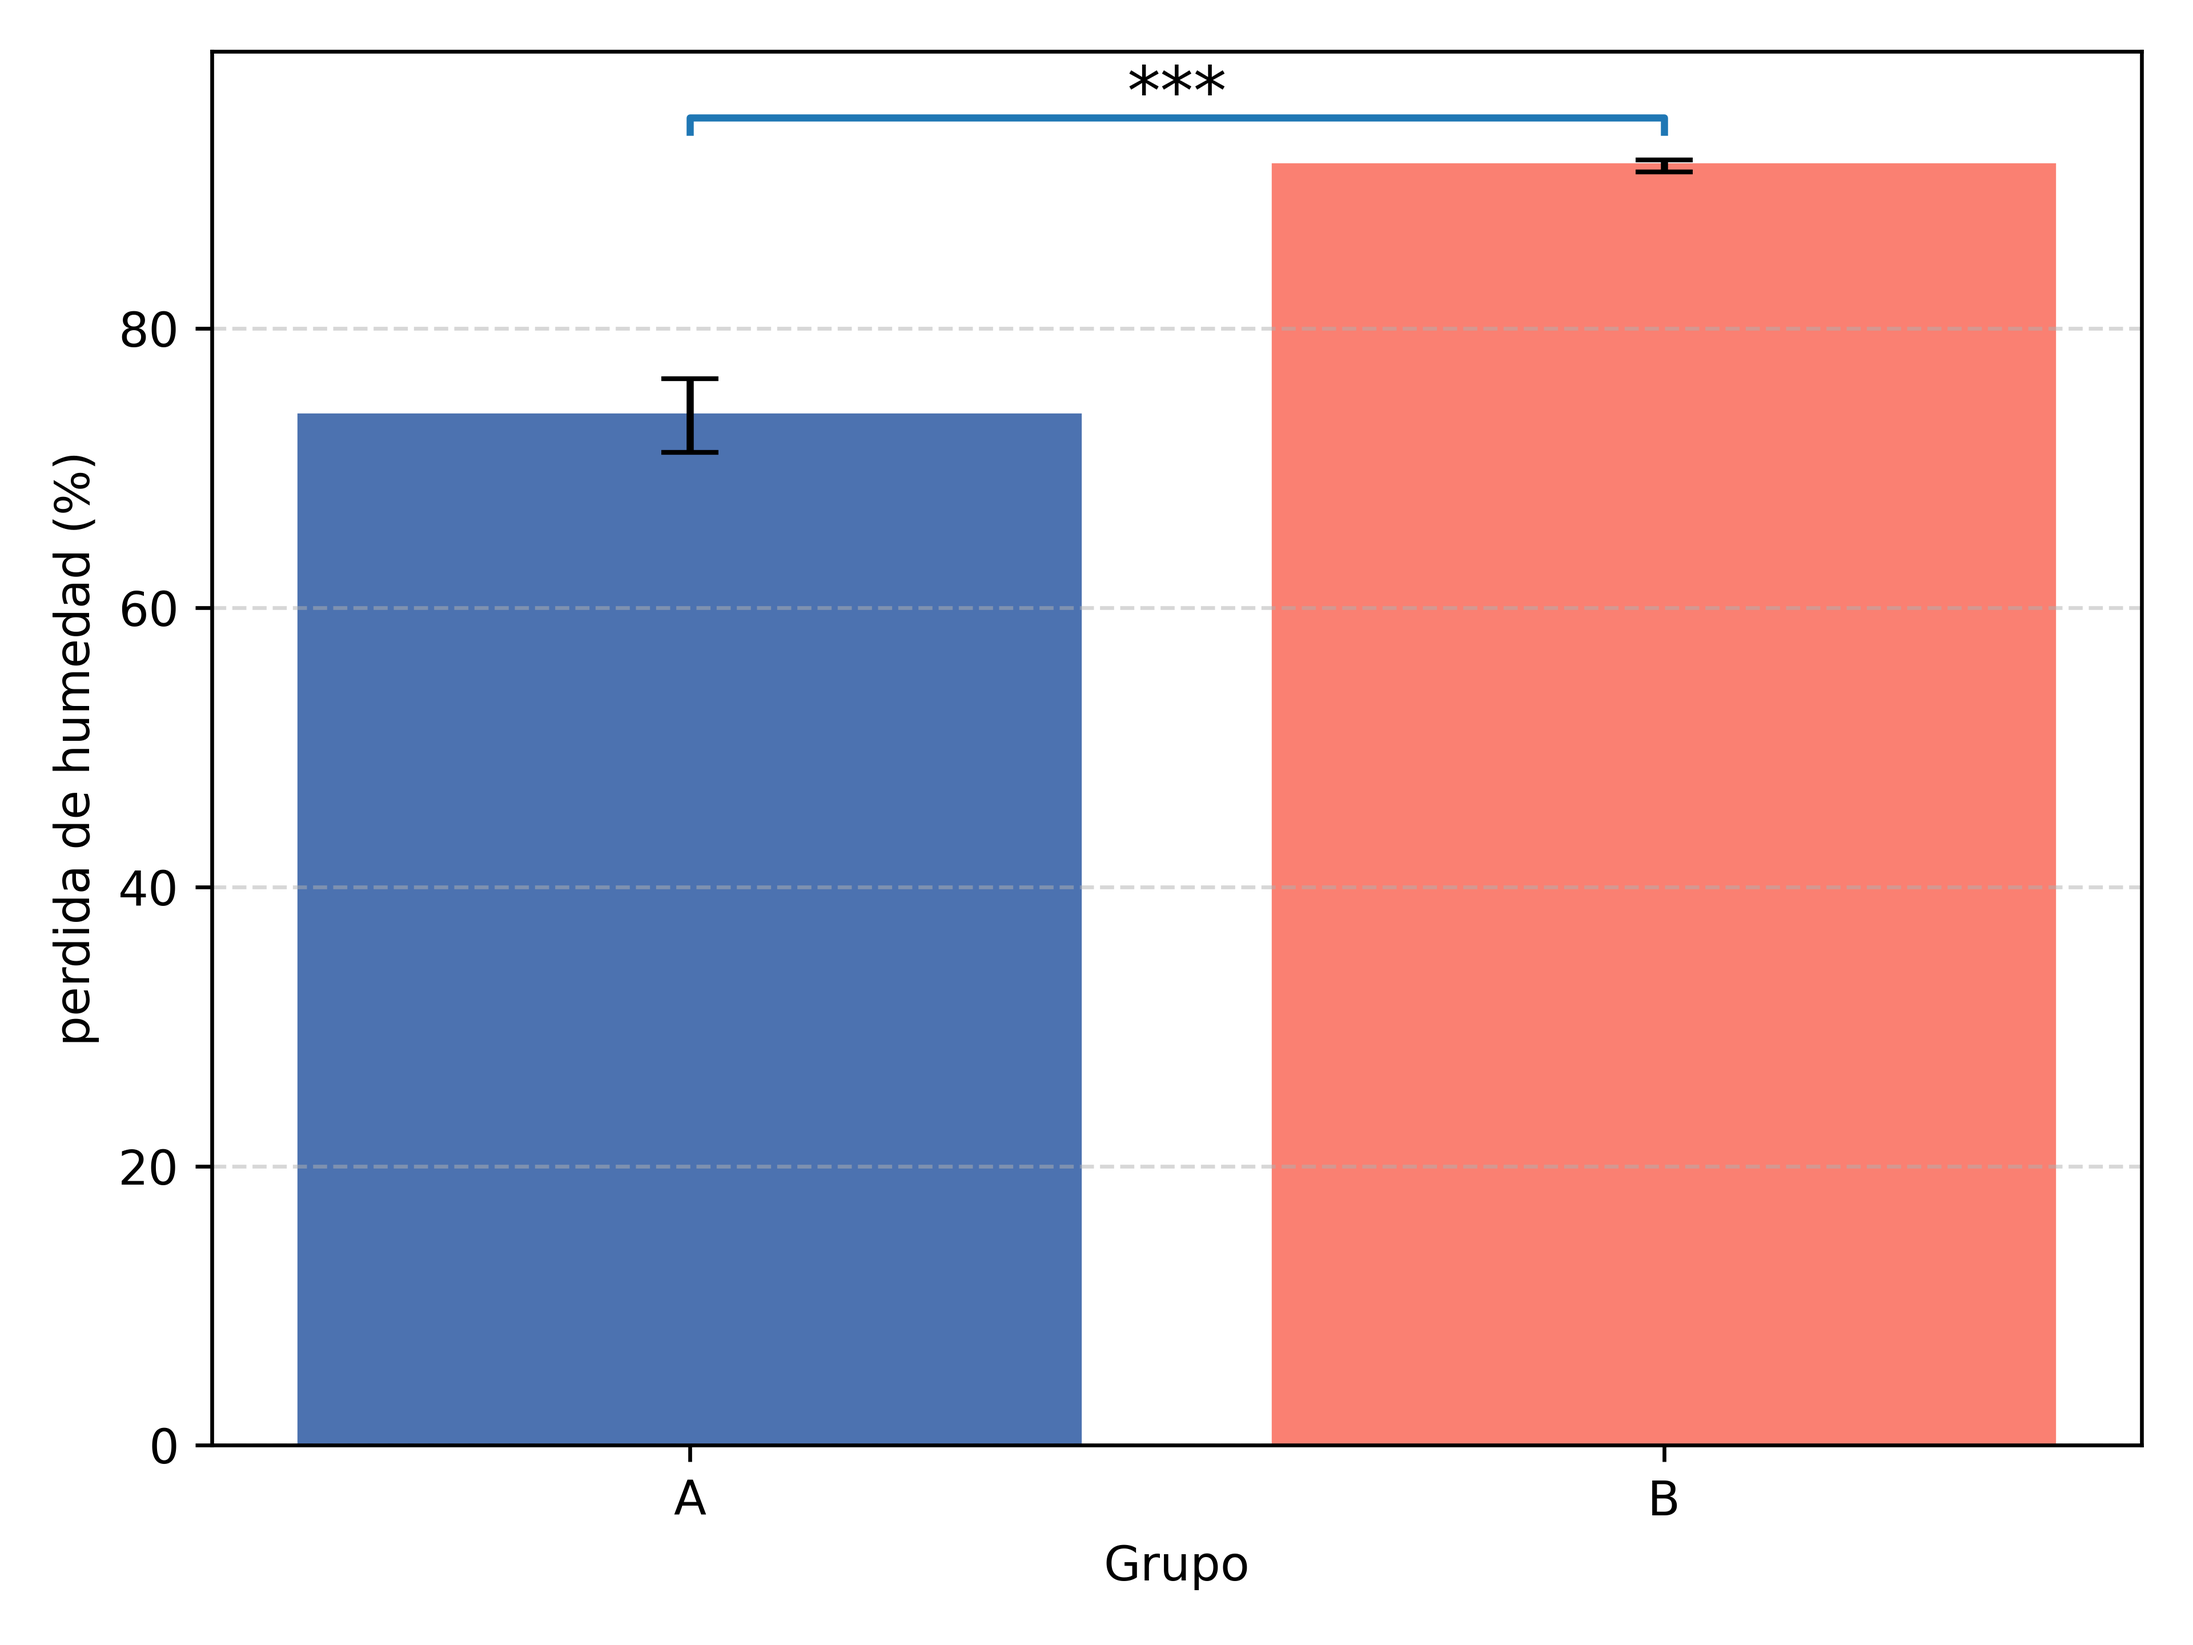
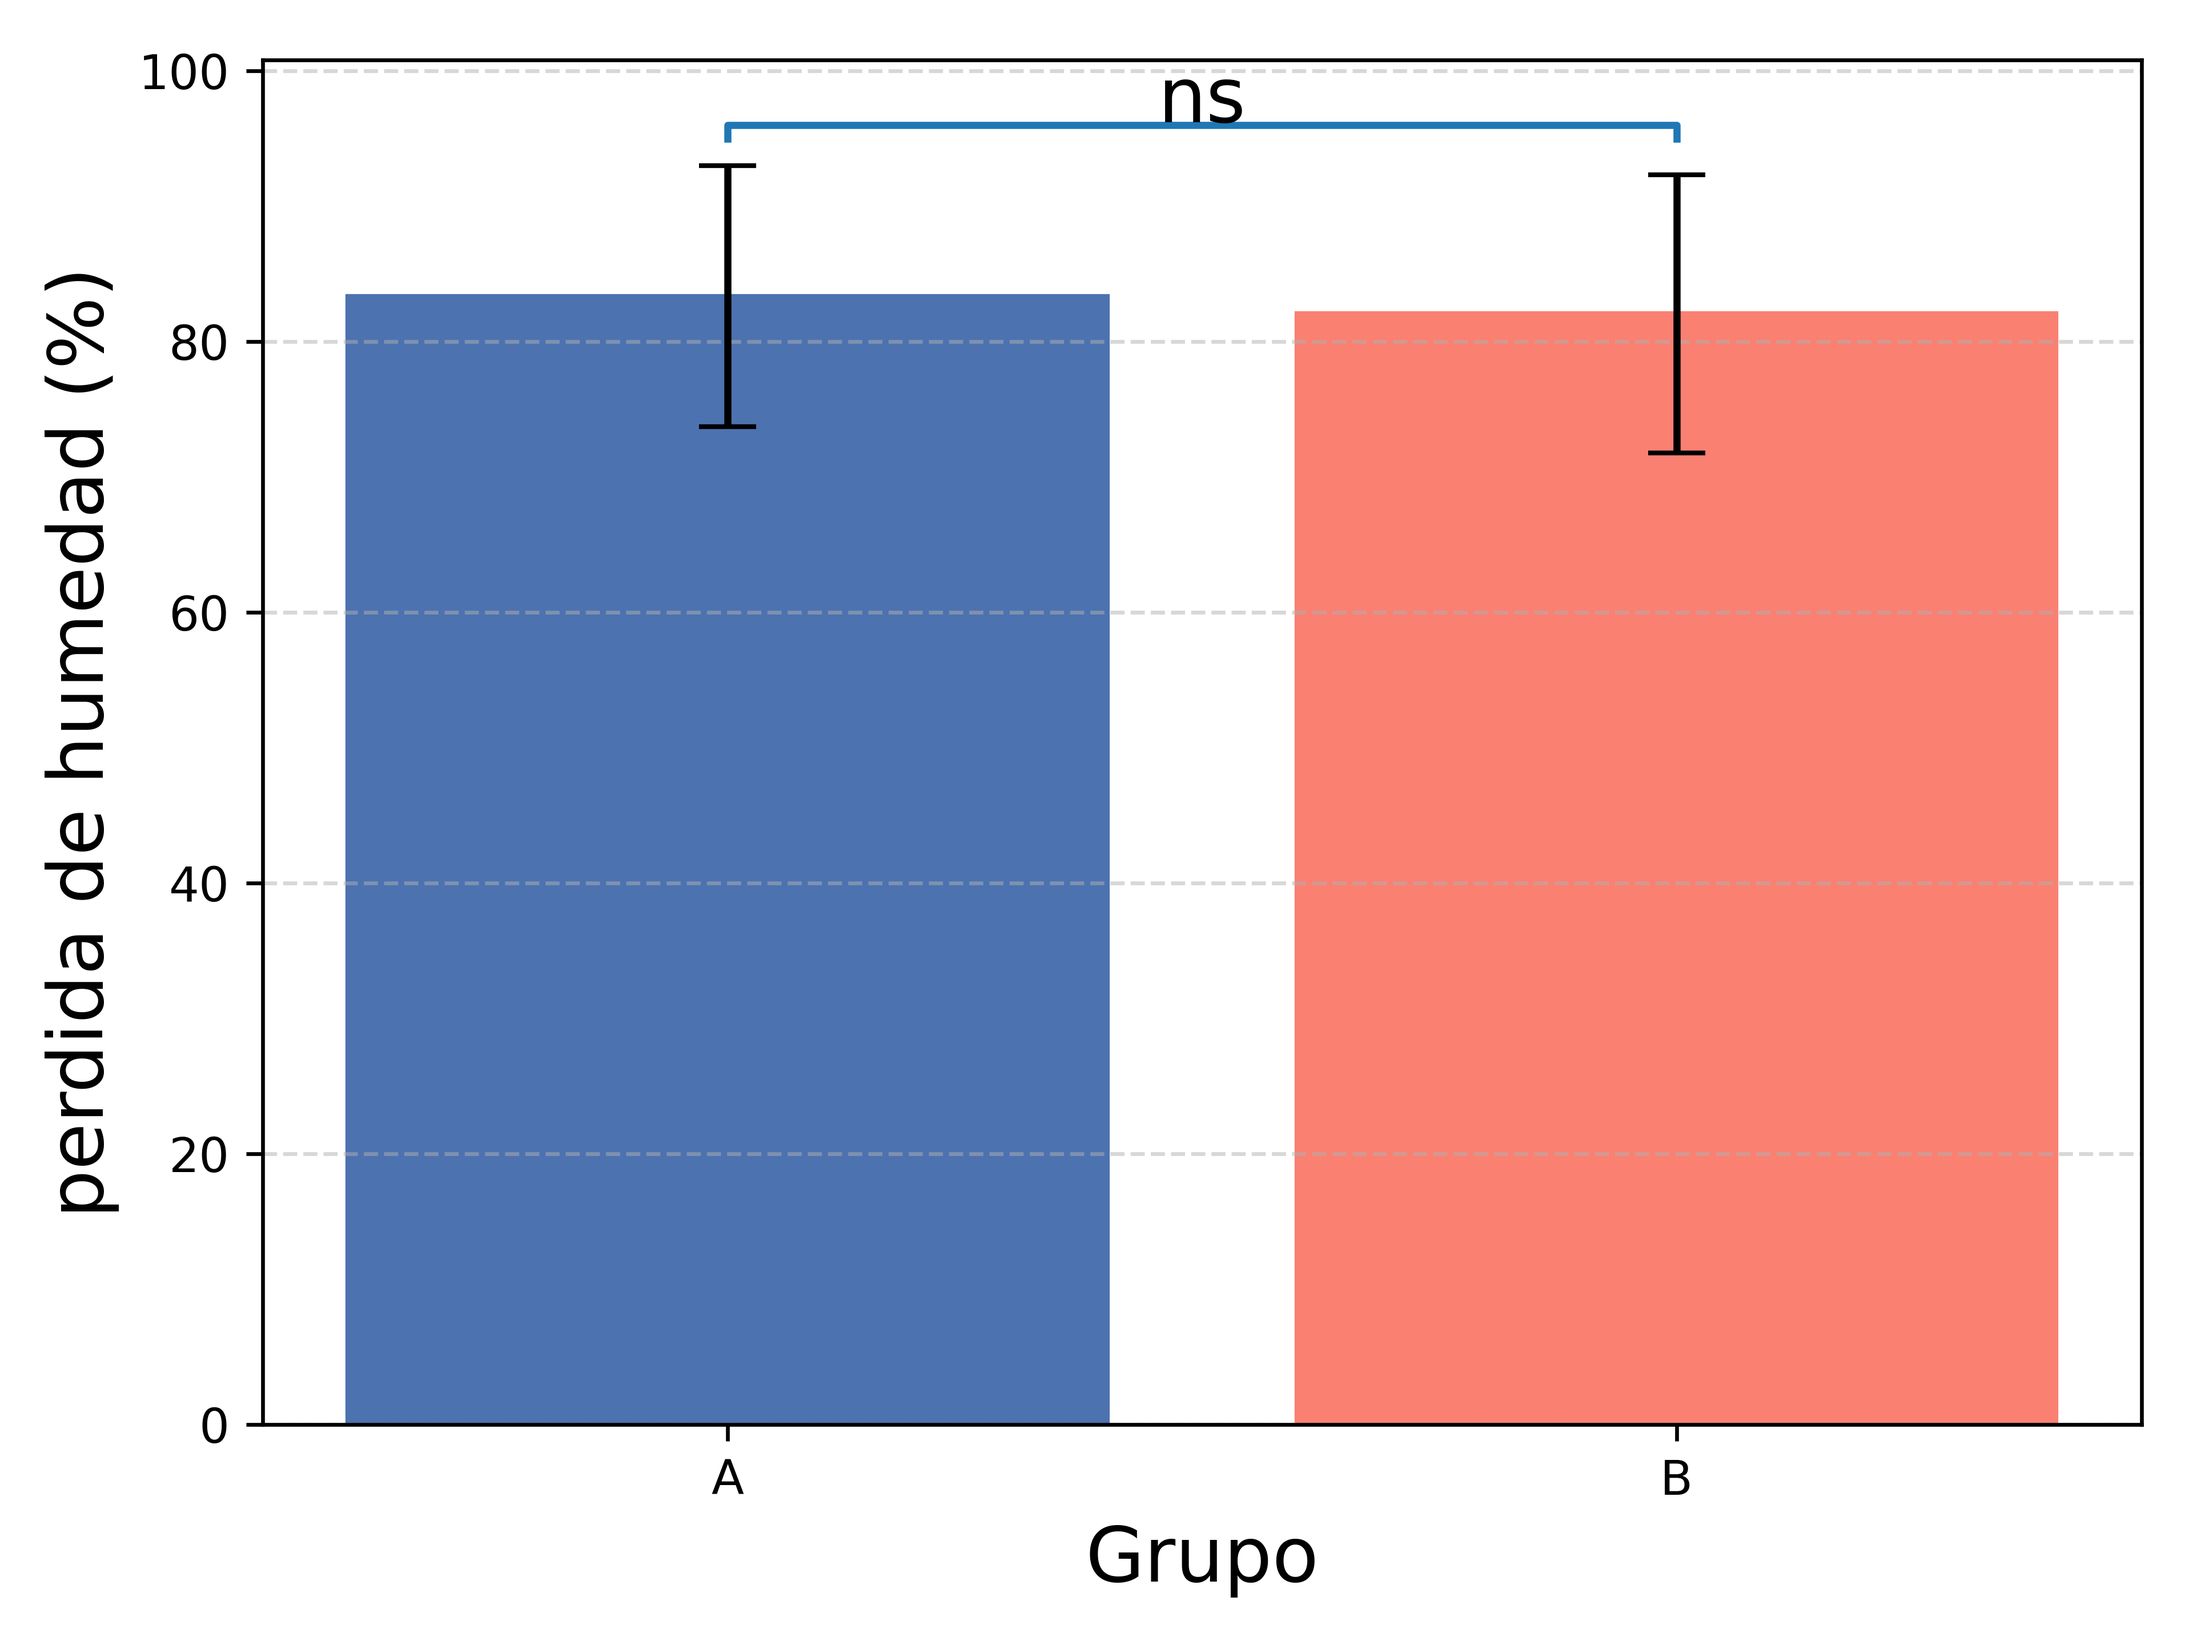
new graphics

Changed region(s): [[0.0, 0.0312, 0.9688, 0.9375], [0.5, 0.9375, 0.5938, 0.9688]]

diff --git a/scripts/analizador.py b/scripts/analizador.py
@@ -64,10 +64,10 @@ elif p_value < 0.05:
 else:
     text = "ns"
 
-plt.text((x1+x2)/2, y+1.2, text, ha='center', fontsize=14)
+plt.text((x1+x2)/2, y+1.2, text, ha='center', fontsize=16)
 
-plt.xlabel("Grupo")
-plt.ylabel("perdida de humedad (%)")
+plt.xlabel("Grupo", fontsize=16)
+plt.ylabel("perdida de humedad (%)", fontsize=16)
 
 # y axis
 plt.grid(axis='y', linestyle='--', alpha=0.5)
